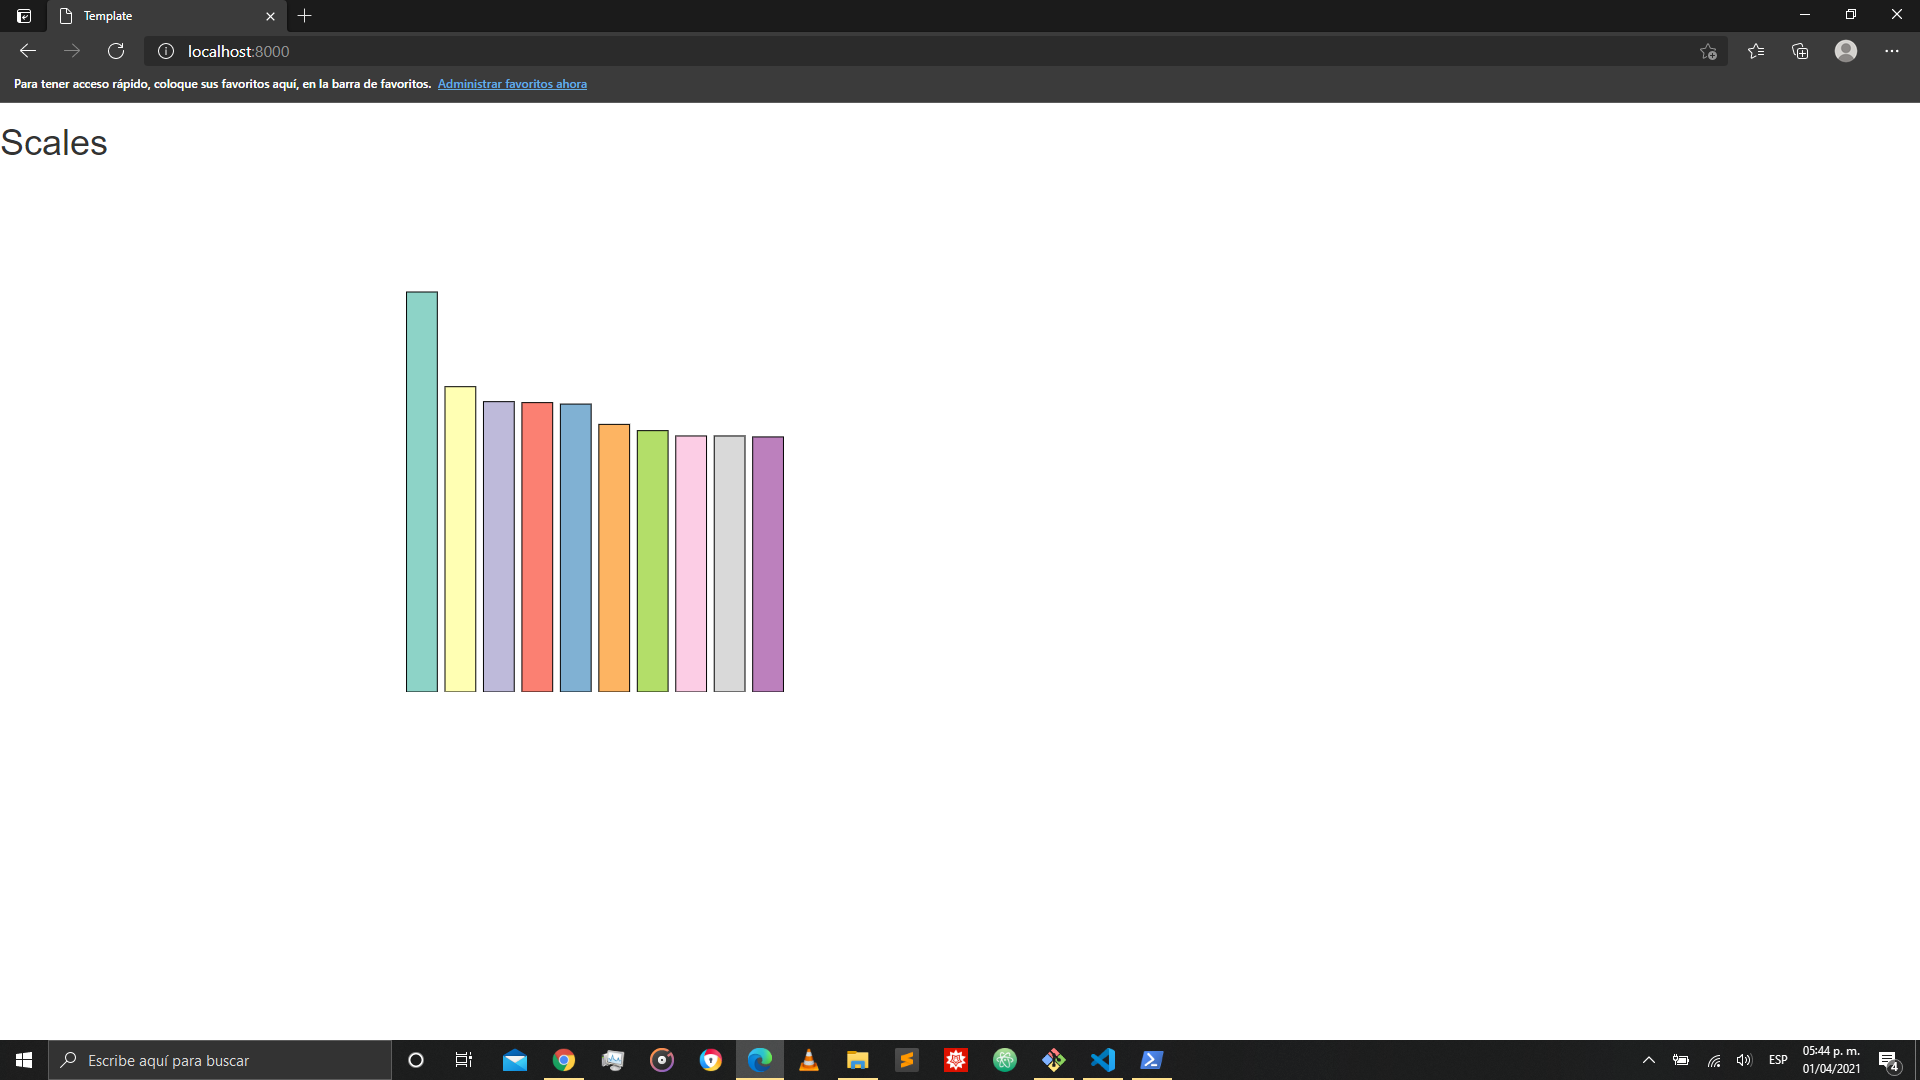
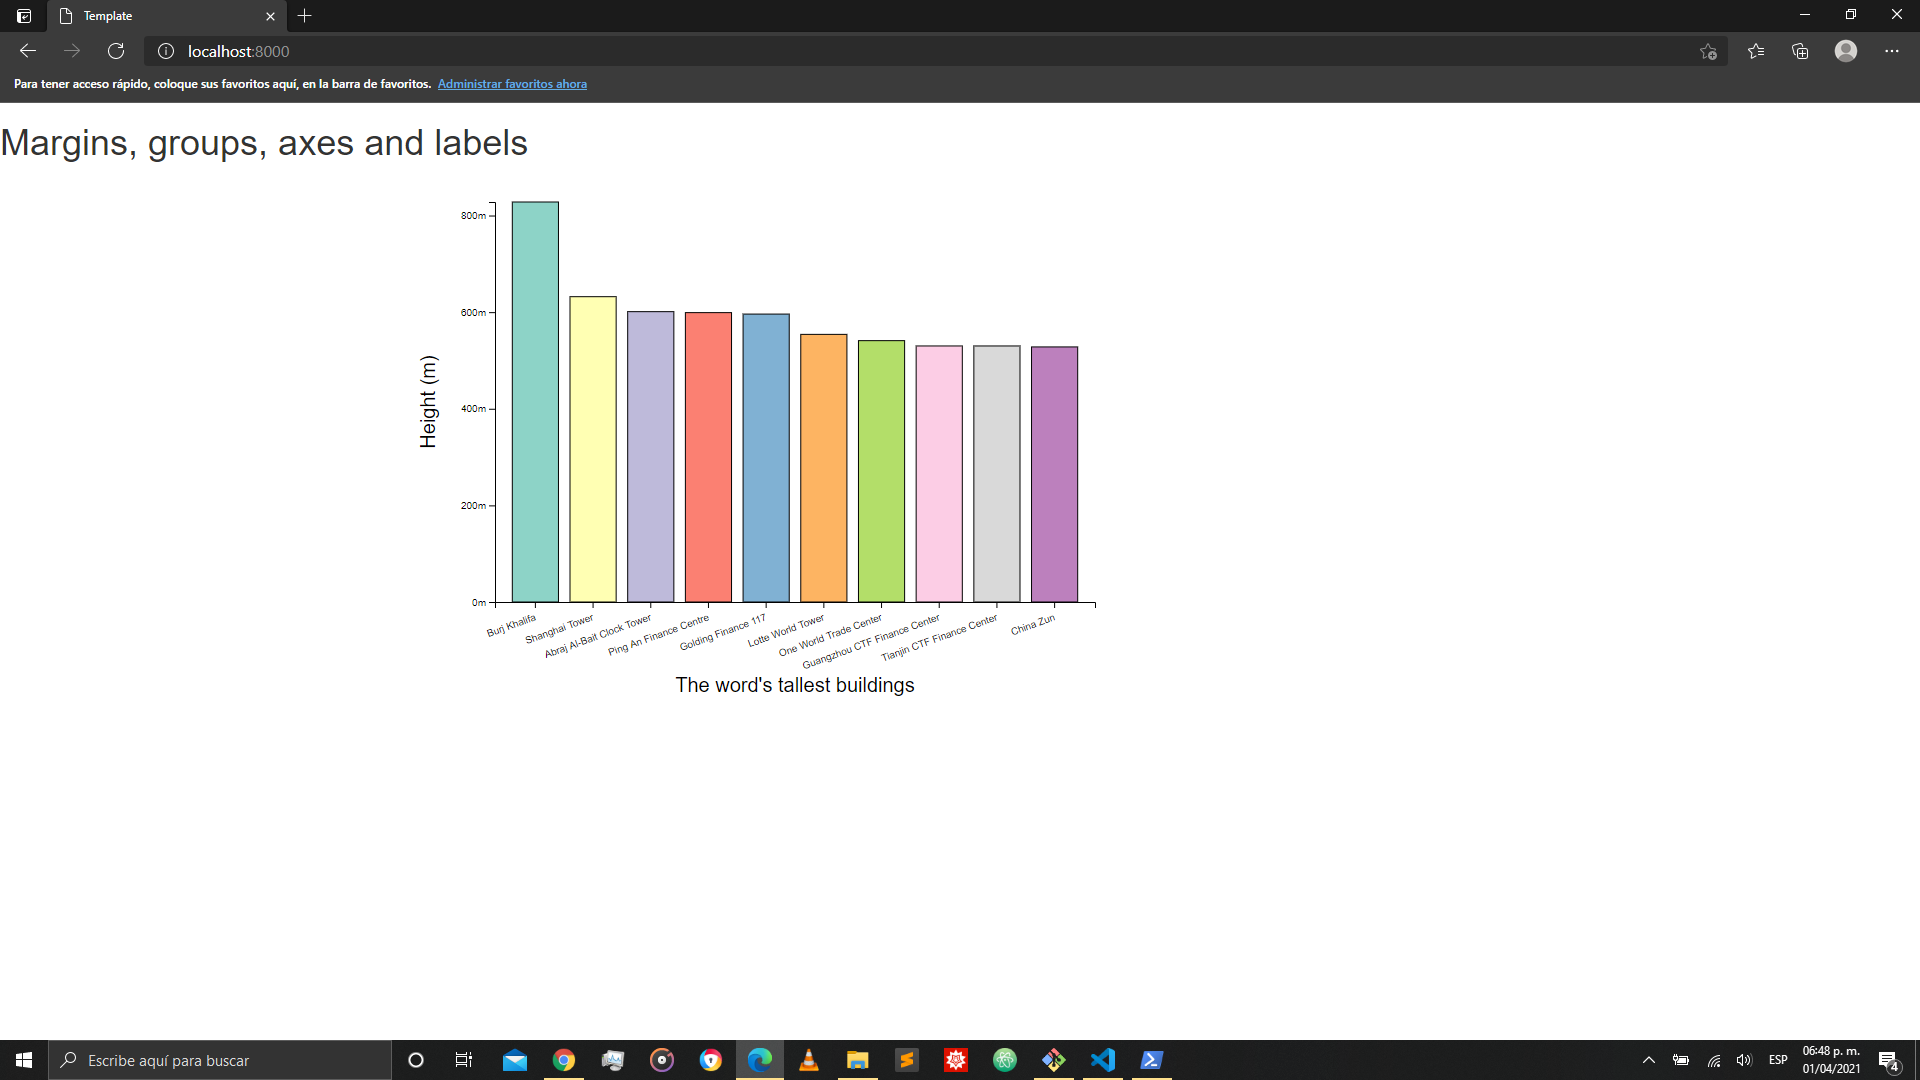
exercise 5: margins, etc

Changed region(s): [[0.1875, 0.1833, 0.5625, 0.6417], [0.0, 0.1222, 0.2812, 0.1528]]

diff --git a/margins/js/main.js b/margins/js/main.js
@@ -2,12 +2,10 @@
 *    main.js
 */
 
-var gap = 20;
-var width = 40;
-
 var margin = {top: 10, right: 10, bottom: 100, left:100};
 var width = 600;
 var height = 400;
+
 var svg = d3.select("#chart-area")
 	.append("svg")
 	.attr("width", width + margin.right + margin.left)
@@ -28,7 +26,7 @@ d3.json("data/buildings.json").then((data)=> {
 
     var x = d3.scaleBand()
         .domain(names)
-        .range([0, 400])
+        .range([0, width])
         .paddingInner(0.2)
         .paddingOuter(0.3);
 
@@ -36,30 +34,72 @@ d3.json("data/buildings.json").then((data)=> {
     console.log(d3.schemeSet3); // list of hex colors
 
     var y = d3.scaleLinear()
-        .domain([0, maxHeight])
-        .range([0, 400]);
+        .domain([maxHeight, 0])
+        .range([0, height]);
 
     var color = d3.scaleOrdinal()
         .domain(names)
         .range(d3.schemeSet3);
 
-    var rects = svg.selectAll("rect").data(data);
+    var rects = g.selectAll("rect").data(data);
     rects.enter()
         .append("rect")
             .attr("x", (d) => {
                 return x(d.name);
             })
             .attr("y", (d) => {
-                return 500 - y(d.height);
+                return y(d.height);;
             })
             .attr("height", (d) => {
-                return y(d.height);
+                return height - y(d.height);
             })
             .attr("width", x.bandwidth())
             .attr("fill", (d) => {
                 return color(d.name);
             })
             .attr("stroke", "black");
+
+    // bottom axis ticks
+    var bottomAxis = d3.axisBottom(x);
+    g.append("g")
+    .attr("class", "bottom axis")
+    .attr("transform", "translate(0, " + height + ")")
+    .call(bottomAxis)
+    .selectAll("text")
+    .attr("y", "10")
+    .attr("x", "-5")
+    .attr("text-anchor", "end")
+    .attr("transform", "rotate(-20)");
+
+    // left y axis
+    var yAxisCall = d3.axisLeft(y)
+        .ticks(5)
+	    .tickFormat((d) => { return d + "m"; });
+
+    g.append("g")
+    .attr("class", "left axis")
+    .call(yAxisCall);
+    
+    // x axis label
+    g.append("text")
+    .attr("class", "x axis-label")
+    .attr("x", (width / 2))
+    .attr("y", height + 140)
+    .attr("font-size", "20px")
+    .attr("text-anchor", "middle")
+    .attr("transform", "translate(0, -50)")
+    .text("The word's tallest buildings");
+
+    // y axis label
+    g.append("text")
+    .attr("class", "y axis-label")
+    .attr("x", - (height / 2))
+    .attr("y", -60)
+    .attr("font-size", "20px")
+    .attr("text-anchor", "middle")
+    .attr("transform", "rotate(-90)")
+    .text("Height (m)");
+
 }).catch((error)=> {
     console.log(error);
 });

diff --git a/margins/README.md b/margins/README.md
@@ -1,9 +1,9 @@
-# Scales
+# Margins, groups, axes and labels
 
 ## Output
 
-![image](https://github.com/the-other-mariana/d3-library-learning/blob/master/scales/capture.png?raw=true)
+![image](https://github.com/the-other-mariana/d3-library-learning/blob/master/margins/capture.png?raw=true)
 
 ## Link
 
-- [Exercise 4](https://sites.google.com/up.edu.mx/d3-labs/exercises/exercise-4)
+- [Exercise 5](https://sites.google.com/up.edu.mx/d3-labs/exercises/exercise-5)
